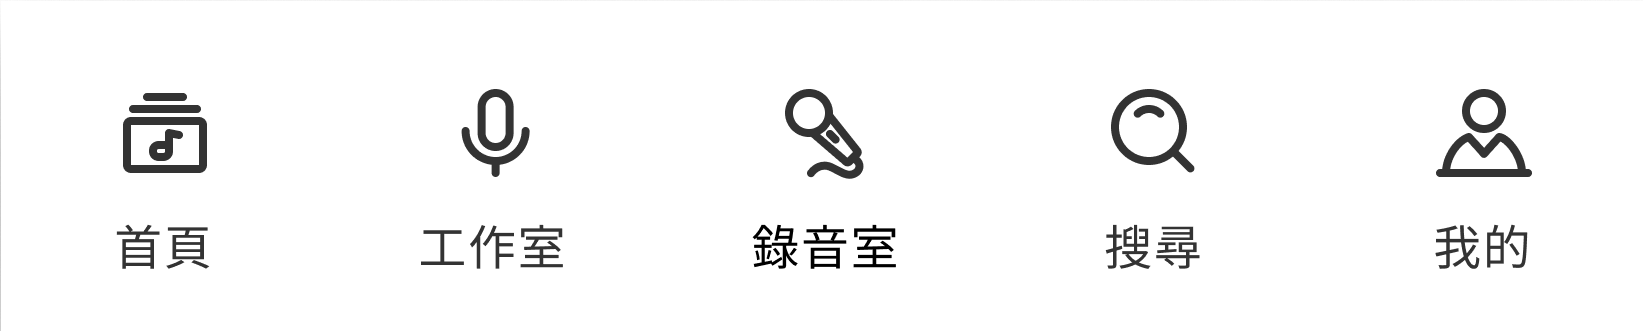
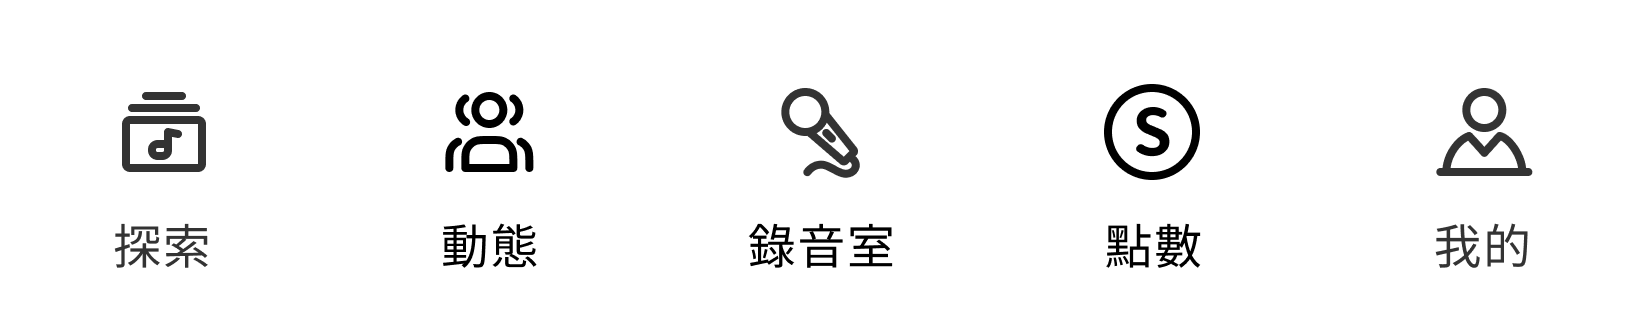
Sort Change and Update Picture

diff --git a/index.html b/index.html
@@ -140,8 +140,71 @@
         <div class="py-3 bg-SkyBgBlue">
 
             <div class="container-fluid">
-                    
                     <div class="container">
+                        <div class="row align-items-center">
+                            <div class="col-md-6 col-12">
+                                <img src="assets/images/ResearchBg/Design community-pana.svg" width="100%" alt="job home page">
+                            </div>
+                            <div class="col-md-6 col-12">
+                                <p class="text-SkyHeavyBlue font-weight-bold msf-h1  msf-uiuxHeader">工作經驗</p>
+                            </div>
+                        </div>
+                        <div class="row">
+                            <div class="card-deck">
+                                <div class="card rounded shadow my-2 delayshowanimate animate__bounceIn"
+                                    id="work01">
+                                    <div class="card-body clearfix row">
+                                        <div class="col-12">
+                                            <img src="assets/images/work-SL.jpg" width="100%">
+                                        </div>
+                                        <div class="col-12">
+                                            <div class="align-items-stretch">
+                                                <p class="h3">即時行樂新創公司</p>
+                                                <p class="msf-info-s">
+                                                    工作內容：<br>CTO技術總長、UI/UX設計師、系統設計師、美術總監。
+                                                </p>
+                                            </div>
+                                        </div>
+                                    </div>
+                                </div>
+                            
+                                <div class="card rounded shadow my-2 delayshowanimate animate__bounceIn"
+                                    id="work01">
+                                    <div class="card-body clearfix row">
+                                        <div class="col-12">
+                                            <img src="assets/images/work-vr.jpg" width="100%">
+                                        </div>
+                                        <div class="col-12">
+                                            <div class="align-items-stretch">
+                                                <p class="h3">方兔工作室</p>
+                                                <p class="msf-info-s">
+                                                    工作內容：<br>駐點童玩節 VR館服務、機器維修與保養、秩序引導。
+                                                </p>
+                                            </div>
+                                        </div>
+                                    </div>
+                                </div>
+                           
+                                <div class="card rounded shadow my-2 delayshowanimate animate__bounceIn"
+                                    id="work02">
+                                    <div class="card-body clearfix row">
+                                        <div class="col-12">
+                                            <img src="assets/images/work-yis.jpg" width="100%">
+                                        </div>
+                                        <div class="col-12">
+                                            <div class="align-items-stretch">
+                                                <p class="h3">宜蘭縣服務處</p>
+                                                <p class="msf-info-s">工作內容：<br>駐點服務、秩序引導、文書處理、場地攝影。
+                                                </p>
+                                            </div>
+                                        </div>
+                                    </div>
+                                </div>
+                            </div>
+                        </div>
+                    </div>
+
+                    <div class="container d-none">
                         <div class="row align-items-center">
                             <div class="col-md-6 col-12">
                                 <img src="assets/images/ResearchBg/Devices-pana.svg" width="100%" alt="">
@@ -152,7 +215,7 @@
                             </div>
                         </div>
                     </div>
-                    <div class="row py-3">
+                    <div class="row py-5 mt-5">
                         <div class="col-12 col-lg-2 offset-lg-1">
                             <div class="d-flex sticky-top my-3 pt-5">
                                 <div class="d-block">
@@ -171,7 +234,7 @@
                                             stroke="#465375" stroke-width="4" stroke-linecap="round"
                                             stroke-linejoin="round" />
                                     </svg>
-                                    <h4 class="text-SkyHeavyBlue font-weight-bold msf-h1">UI/UX設計作品</h4>
+                                    <h4 class="text-SkyHeavyBlue font-weight-bold msf-h1 msf-uiuxHeader">UI/UX設計作品</h4>
                                     <p class="msf-sh1">盡力完善好的使用體驗並結合優秀的介面設計<br>帶給用戶完善的體驗</p>
                                 </div>
                             </div>
@@ -348,7 +411,7 @@
                         </div>
                     </div>
 
-                    <div class="container">
+                    <div class="container d-none">
                         <div class="row align-items-center">
                             <div class="col-md-6 col-12">
                                 <img src="assets/images/ResearchBg/JavaScript frameworks-pana.svg" width="100%" alt="">
@@ -359,7 +422,7 @@
                             </div>
                         </div>
                     </div>
-                    <div class="row py-3">
+                    <div class="row py-3 py-5 mt-5">
                         <div class="col-12 col-lg-2 offset-lg-1">
                             <div class="sticky-top pt-5 pb-3 mx-2">
                                 <div class="d-flex">
@@ -375,7 +438,7 @@
                                             <path d="M28 37H30" stroke="#465375" stroke-width="4" stroke-linecap="round"
                                                 stroke-linejoin="round" />
                                         </svg>
-                                        <h4 class="text-SkyHeavyBlue font-weight-bold msf-h1">Side Project</h4>
+                                        <h4 class="text-SkyHeavyBlue font-weight-bold msf-h1  msf-uiuxHeader">Side Project</h4>
                                         <p class="msf-sh1">在空閒時間中，<br>自行研究新技術並且活用</p>
                                     </div>
                                 </div>
@@ -426,7 +489,6 @@
                                         </div>
                                     </div>
                                 </div>
-                                
                                 
                                 <div class="col-12">
                                     <div class="row card-deck">
@@ -590,69 +652,7 @@
                         </div>
                     </div>
                     
-                    <div class="container">
-                        <div class="row align-items-center">
-                            <div class="col-md-6 col-12">
-                                <img src="assets/images/ResearchBg/Design community-pana.svg" width="100%" alt="job home page">
-                            </div>
-                            <div class="col-md-6 col-12">
-                                <p class="h1">工作經驗</p>
-                            </div>
-                        </div>
-                        <div class="row">
-                            <div class="card-deck">
-                                <div class="card rounded shadow my-2 delayshowanimate animate__bounceIn"
-                                    id="work01">
-                                    <div class="card-body clearfix row">
-                                        <div class="col-12">
-                                            <img src="assets/images/work-SL.jpg" width="100%">
-                                        </div>
-                                        <div class="col-12">
-                                            <div class="align-items-stretch">
-                                                <p class="h3">即時行樂新創公司</p>
-                                                <p class="msf-info-s">
-                                                    工作內容：<br>CTO技術總長、UI/UX設計師、系統設計師、美術總監。
-                                                </p>
-                                            </div>
-                                        </div>
-                                    </div>
-                                </div>
-                            
-                                <div class="card rounded shadow my-2 delayshowanimate animate__bounceIn"
-                                    id="work01">
-                                    <div class="card-body clearfix row">
-                                        <div class="col-12">
-                                            <img src="assets/images/work-vr.jpg" width="100%">
-                                        </div>
-                                        <div class="col-12">
-                                            <div class="align-items-stretch">
-                                                <p class="h3">方兔工作室</p>
-                                                <p class="msf-info-s">
-                                                    工作內容：<br>駐點童玩節 VR館服務、機器維修與保養、秩序引導。
-                                                </p>
-                                            </div>
-                                        </div>
-                                    </div>
-                                </div>
-                           
-                                <div class="card rounded shadow my-2 delayshowanimate animate__bounceIn"
-                                    id="work02">
-                                    <div class="card-body clearfix row">
-                                        <div class="col-12">
-                                            <img src="assets/images/work-yis.jpg" width="100%">
-                                        </div>
-                                        <div class="col-12">
-                                            <div class="align-items-stretch">
-                                                <p class="h3">宜蘭縣服務處</p>
-                                                <p class="msf-info-s">工作內容：<br>駐點服務、秩序引導、文書處理、場地攝影。
-                                                </p>
-                                            </div>
-                                        </div>
-                                    </div>
-                                </div>
-                            </div>
-                        </div>
-                    </div>
+                    
                     
                 </div>
             </div>
@@ -718,9 +718,9 @@
             aria-labelledby="exampleModalCenterTitle" aria-hidden="true">
             <div class="modal-dialog modal-dialog-centered" role="document">
                 <div class="modal-content">
-                    <div class="modal-header">
+                    <div class="modal-header" style="background-color: #6D96A9;color: white ;">
                         <h5 class="modal-title" id="exampleModalCenterTitle">Songla 音樂智慧創作小幫手</h5>
-                        <button type="button" class="close" data-dismiss="modal" aria-label="Close">
+                        <button type="button" class="close" style="color: white;" data-dismiss="modal" aria-label="Close">
                             <span aria-hidden="true">&times;</span>
                         </button>
                     </div>
@@ -745,8 +745,8 @@
                                                 音樂推薦專區，提供音樂推播，本產品的一大亮點即提供音樂推播服務，因此導航列設計此區塊方便前往。<br>
                                             </p>
                                             <p class="msf-info-s col-md-4 col-sm-6 col-12">
-                                                <img src="assets/images/design03/ux/icon-workspace.svg" width="40px">
-                                                <b>工作室</b><br>
+                                                <img src="assets/images/design03/ux/icon-social.svg" width="40px">
+                                                <b>動態</b><br>
                                                 產品的特色為「創作 + 播放平台」，所以工作室對於此APP來說是常用重點功能之一。<br>
                                             </p>
                                             <p class="msf-info-s col-md-4 col-sm-6 col-12">
@@ -895,9 +895,9 @@
             aria-labelledby="exampleModalCenterTitle" aria-hidden="true">
             <div class="modal-dialog modal-dialog-centered" role="document">
                 <div class="modal-content">
-                    <div class="modal-header">
+                    <div class="modal-header" style="background-color: #98ACF8;color: white ;">
                         <h5 class="modal-title" id="exampleModalCenterTitle">食材外送專家 - Foodome</h5>
-                        <button type="button" class="close" data-dismiss="modal" aria-label="Close">
+                        <button type="button" class="close" style="color: white;" data-dismiss="modal" aria-label="Close">
                             <span aria-hidden="true">&times;</span>
                         </button>
                     </div>

diff --git a/assets/stylesheets/myself.css b/assets/stylesheets/myself.css
@@ -32,6 +32,11 @@
     font-size: 18px;
     line-height: 150%;
 }
+.msf-uiuxHeader{
+     background: linear-gradient(90deg, #465375 0%, #758AC2 100%); 
+     -webkit-background-clip: text;
+     -webkit-text-fill-color: transparent;
+}
 
 .ml12 {
     font-weight: 200;
